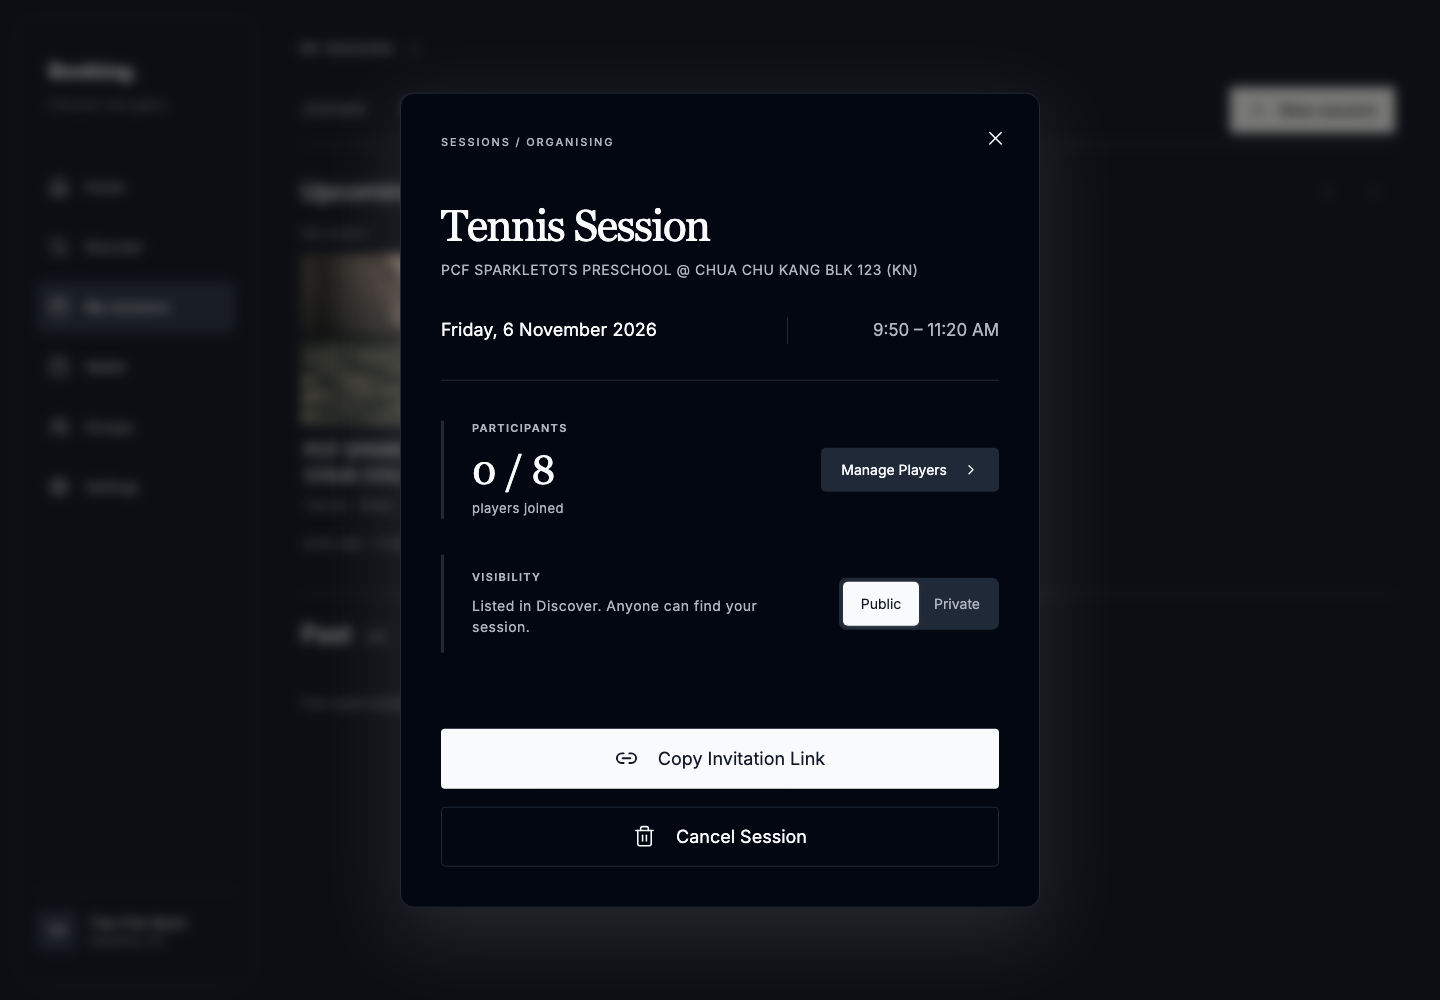
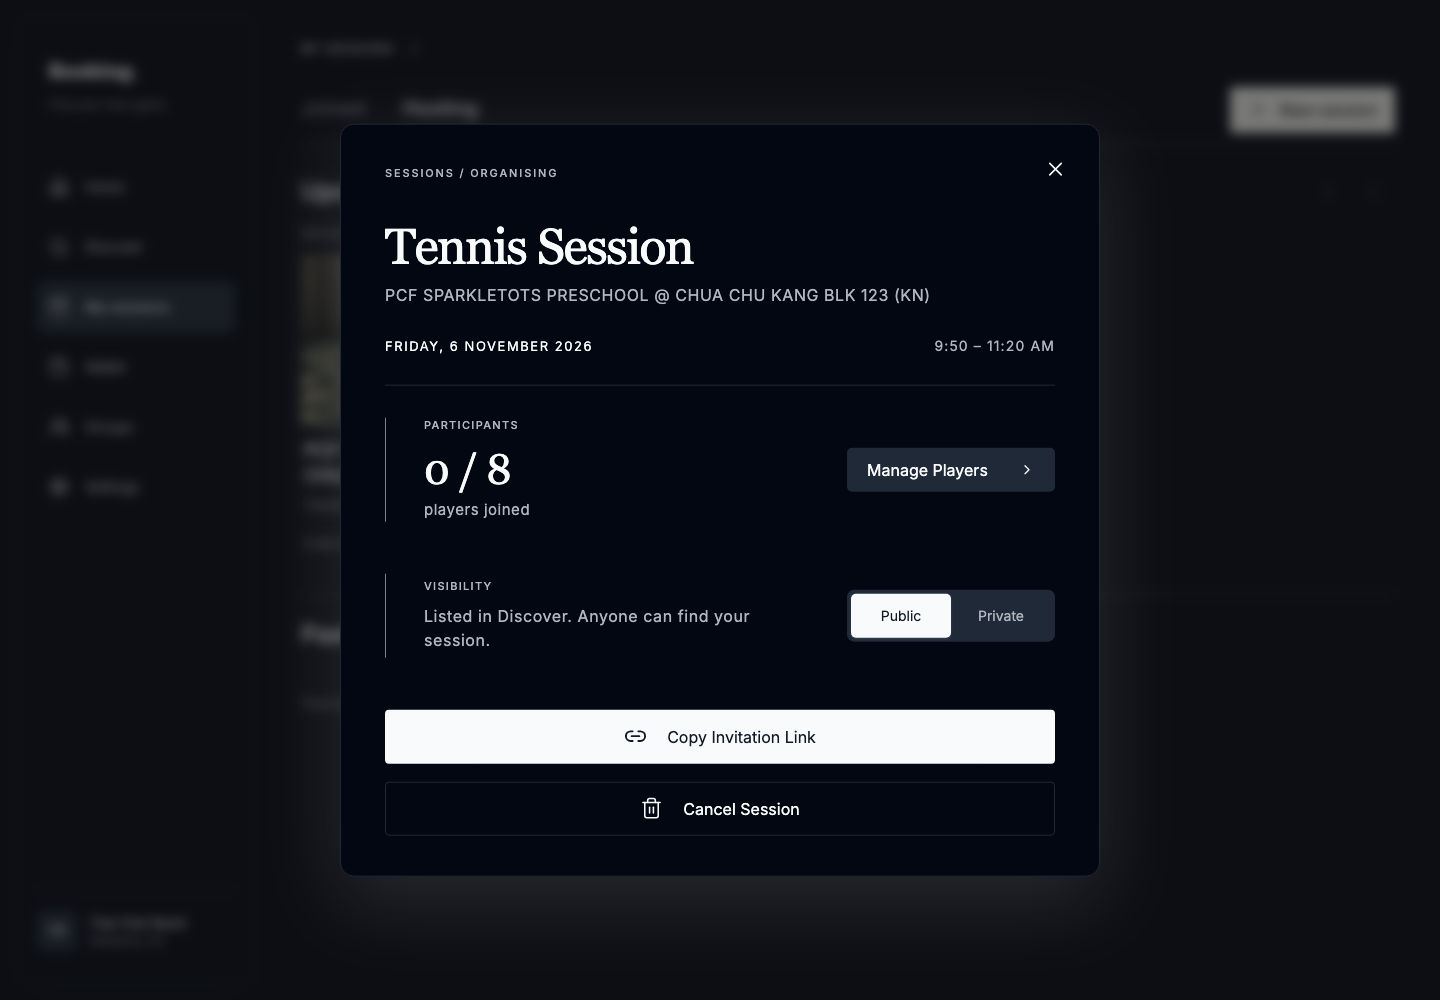
style(sessions): refine desktop typography and footer spacing

diff --git a/app/sessions/_components/session-details.module.css b/app/sessions/_components/session-details.module.css
@@ -1,32 +1,33 @@
 .overlay { background: rgb(20 20 20 / .55); backdrop-filter: blur(6px); }
 .sheetHandle { display: none; }
-.dialog.dialog { width: calc(100% - 32px); max-width: 640px; max-height: calc(100dvh - 32px); overflow-y: auto; padding: 40px; gap: 0; border-radius: 14px; background: hsl(var(--card)); box-shadow: 0 24px 80px hsl(var(--foreground) / .12); }
-.header { text-align: left; margin-bottom: 36px; }
-.eyebrow { margin: 0 44px 44px 0; color: hsl(var(--muted-foreground)); font-size: 11px; font-weight: 500; letter-spacing: .17em; text-transform: uppercase; }
+.dialog.dialog { width: calc(100% - 32px); max-width: 760px; max-height: calc(100dvh - 32px); overflow-y: auto; padding: 40px 44px; gap: 0; border-radius: 14px; background: hsl(var(--card)); box-shadow: 0 24px 80px hsl(var(--foreground) / .12); }
+.header { text-align: left; margin-bottom: 28px; }
+.eyebrow { margin: 0 44px 30px 0; color: hsl(var(--muted-foreground)); font-size: 11px; font-weight: 500; letter-spacing: .17em; text-transform: uppercase; }
 .titleRow { min-width: 0; }
-.title { margin: 0; font-family: Georgia, "Times New Roman", serif; font-size: 44px; line-height: 1.15; font-weight: 400; letter-spacing: -1.5px; text-transform: capitalize; }
-.subtitle { margin-top: 8px !important; color: hsl(var(--muted-foreground)); font-size: 14px; line-height: 1.5; letter-spacing: .035em; overflow-wrap: anywhere; }
+.title { margin: 0; font-family: Georgia, "Times New Roman", serif; font-size: 50px; line-height: 1.15; font-weight: 400; letter-spacing: -1.5px; text-transform: capitalize; }
+.subtitle { margin-top: 8px !important; color: hsl(var(--muted-foreground)); font-size: 16px; line-height: 1.5; letter-spacing: .035em; overflow-wrap: anywhere; }
 .subtitle a:hover { text-decoration: underline; text-underline-offset: 4px; }
 .date { flex: 1; }
-.summary { display: flex; align-items: baseline; justify-content: space-between; gap: 16px 24px; padding-bottom: 36px; margin-bottom: 40px; border-bottom: 1px solid hsl(var(--border)); }
+.summary { display: flex; align-items: baseline; justify-content: space-between; gap: 16px 24px; padding-bottom: 28px; margin-bottom: 32px; border-bottom: 1px solid hsl(var(--border)); }
 .date, .time { font-size: 18px; line-height: 1.5; }
-.time { flex: 0 0 38%; padding-left: 24px; border-left: 1px solid hsl(var(--border)); text-align: right; font-size: 17px; color: hsl(var(--muted-foreground)); white-space: nowrap; }
-.managementRow { display: flex; align-items: center; justify-content: space-between; gap: 24px; border-left: 3px solid hsl(var(--border)); min-height: 98px; margin-bottom: 36px; padding: 0 0 0 28px; }
+.date { font-size: 13px; font-weight: 400; letter-spacing: .12em; line-height: 1.6; text-transform: uppercase; }
+.time { flex: none; text-align: right; font-size: 14px; line-height: 1.6; letter-spacing: .08em; color: hsl(var(--muted-foreground)); white-space: nowrap; }
+.managementRow { display: flex; align-items: center; justify-content: space-between; gap: 24px; border-left: 1px solid hsl(var(--muted-foreground) / .7); min-height: 98px; margin-bottom: 52px; padding: 0 0 0 38px; }
 .managementRow > div:first-child { min-width: 0; }
-.managementRow h3 { margin-bottom: 10px; color: hsl(var(--muted-foreground)); font-size: 11px; font-weight: 600; line-height: 1.4; letter-spacing: .12em; text-transform: uppercase; }
+.managementRow h3 { margin-bottom: 10px; color: hsl(var(--muted-foreground)); font-size: 11px; font-weight: 500; line-height: 1.4; letter-spacing: .12em; text-transform: uppercase; }
 .count { display: flex; flex-direction: column; align-items: flex-start; gap: 5px; }
-.count strong { color: hsl(var(--foreground)); font-family: Georgia, "Times New Roman", serif; font-size: 40px; font-weight: 400; letter-spacing: -.8px; line-height: 1.2; }
-.count > span { color: hsl(var(--muted-foreground)); font-size: 13px; letter-spacing: .035em; }
-.manageButton { min-height: 44px; flex-shrink: 0; padding: 0 20px; border-radius: 5px; font-size: 14px; font-weight: 400; text-transform: capitalize; }
-.visibilityDescription { max-width: 300px; color: hsl(var(--muted-foreground)); font-size: 14px; line-height: 1.5; letter-spacing: .035em; }
-.segment { display: flex; flex-shrink: 0; padding: 4px; border-radius: 7px; background: hsl(var(--muted)); }
-.segment button { min-width: 76px; min-height: 44px; padding: 8px 12px; border-radius: 5px; color: hsl(var(--muted-foreground)); font-size: 14px; }
+.count strong { color: hsl(var(--foreground)); font-family: Georgia, "Times New Roman", serif; font-size: 42px; font-weight: 400; letter-spacing: -.8px; line-height: 1.2; }
+.count > span { color: hsl(var(--muted-foreground)); font-size: 15px; letter-spacing: .035em; }
+.manageButton { min-width: 208px; min-height: 44px; flex-shrink: 0; justify-content: space-between; padding: 0 20px; border-radius: 5px; font-size: 16px; font-weight: 400; text-transform: capitalize; }
+.visibilityDescription { max-width: 330px; color: hsl(var(--muted-foreground)); font-size: 16px; line-height: 1.5; letter-spacing: .035em; }
+.segment { display: flex; flex-shrink: 0; min-width: 208px; padding: 4px; border-radius: 7px; background: hsl(var(--muted)); }
+.segment button { flex: 1; min-width: 76px; min-height: 44px; padding: 8px 12px; border-radius: 5px; color: hsl(var(--muted-foreground)); font-size: 14px; }
 .segment button[aria-pressed="true"] { background: hsl(var(--primary)); color: hsl(var(--primary-foreground)); box-shadow: 0 1px 3px hsl(var(--foreground) / .12); }
-.hostFooter { display: grid; gap: 18px; padding-top: 40px; }
+.hostFooter { display: grid; gap: 18px; padding-top: 0; }
 .invitation, .inviteRow { width: 100%; }
-.inviteButton { position: relative; width: 100%; min-height: 60px; border-radius: 4px; font-size: 18px; font-weight: 400; text-transform: capitalize; }
+.inviteButton { position: relative; width: 100%; min-height: 54px; border-radius: 4px; font-size: 16px; font-weight: 400; text-transform: capitalize; }
 .inviteButton > svg { position: static; width: 23px; height: 23px; margin-right: 12px; }
-.cancelButton { position: relative; display: flex; align-items: center; justify-content: center; gap: 20px; width: 100%; min-height: 60px; padding: 12px 52px; border: 1px solid hsl(var(--input)); border-radius: 4px; color: hsl(var(--foreground)); font-size: 18px; text-transform: capitalize; }
+.cancelButton { position: relative; display: flex; align-items: center; justify-content: center; gap: 20px; width: 100%; min-height: 54px; padding: 12px 52px; border: 1px solid hsl(var(--input)); border-radius: 4px; color: hsl(var(--foreground)); font-size: 16px; text-transform: capitalize; }
 .cancelButton > svg { position: static; width: 23px; height: 23px; stroke-width: 1.6; }
 .cancelButton:hover { background: hsl(var(--muted)); }
 .dialog > button:last-child { top: 24px; right: 24px; display: flex; align-items: center; justify-content: center; width: 40px; height: 40px; opacity: 1; }
@@ -48,6 +49,9 @@
 :global(.dark) .dialog { --muted-foreground: 220 10% 72%; --destructive: 0 85% 72%; }
 @keyframes sheetEnter { from { transform: translateY(100%); } to { transform: translateY(0); } }
 @keyframes sheetExit { from { transform: translateY(0); } to { transform: translateY(100%); } }
+@media (min-width: 581px) {
+  .managementRow + .managementRow { min-height: 84px; }
+}
 @media (max-width: 580px) {
   .dialog.dialog { top: auto; bottom: 0; left: 0; display: flex; flex-direction: column; width: 100%; max-width: none; height: calc(100dvh - max(16px, env(safe-area-inset-top))); max-height: calc(100dvh - max(16px, env(safe-area-inset-top))); transform: none; padding: 52px 24px max(24px, env(safe-area-inset-bottom)); border-radius: 20px 20px 0 0; overscroll-behavior: contain; }
   .dialog.dialog > :not(button) { flex-shrink: 0; }
@@ -61,8 +65,8 @@
   .header { margin-bottom: 32px; }
   .summary { flex-wrap: wrap; gap: 8px 12px; padding-bottom: 28px; margin-bottom: 28px; }
   .date { font-size: 10px; font-weight: 600; letter-spacing: .12em; line-height: 1.6; text-transform: uppercase; }
-  .time { flex: none; padding-left: 0; border-left: 0; font-size: 12px; line-height: 1.6; }
-  .managementRow { align-items: stretch; flex-direction: column; gap: 18px; min-height: 0; padding-left: 20px; margin-bottom: 32px; border-left-width: 2px; }
+  .time { flex: none; padding-left: 0; border-left: 0; font-size: 12px; line-height: 1.6; letter-spacing: normal; }
+  .managementRow { align-items: stretch; flex-direction: column; gap: 18px; min-height: 0; padding-left: 20px; margin-bottom: 32px; border-left-width: 2px; border-left-color: hsl(var(--border)); }
   .managementRow > div:first-child { width: 100%; }
   .managementRow h3 { font-size: 10px; font-weight: 500; letter-spacing: .16em; }
   .count strong { font-size: 40px; }

diff --git a/app/sessions/_components/session-details.stories.tsx b/app/sessions/_components/session-details.stories.tsx
@@ -41,7 +41,7 @@ const meta = {
     await expect(dialog.getByRole("button", { name: "Public" })).toHaveAttribute("aria-pressed", "true");
     await expect(dialog.getAllByText(session.venueName, { exact: false })).toHaveLength(1);
     await expect(element.scrollWidth).toBeLessThanOrEqual(element.clientWidth);
-    await waitFor(() => expect(element.getBoundingClientRect().width).toBeLessThanOrEqual(640));
+    await waitFor(() => expect(element.getBoundingClientRect().width).toBeLessThanOrEqual(760));
   },
 } satisfies Meta<typeof SessionsController>;
 export default meta;

diff --git a/docs/screenshots/session-details/README.md b/docs/screenshots/session-details/README.md
@@ -12,10 +12,10 @@
 | joined-completed-desktop.png | 1440 × 1000 | Original Joined completed-session modal, dark |
 | joined-completed-mobile.png | 390 × 844 | Original Joined completed-session modal, dark |
 
-Render `Sessions/Session details/Hosting` and `Joined` after running `npm run build-storybook` and serving `storybook-static`. The host screenshots change the viewport and toggle the same `html.dark` class used by the application's theme tokens. All four host screenshots have zero horizontal overflow; the desktop dialog is 640px wide and mobile sheet fills the 390px viewport, with vertical scrolling where needed.
+Render `Sessions/Session details/Hosting` and `Joined` after running `npm run build-storybook` and serving `storybook-static`. The host screenshots change the viewport and toggle the same `html.dark` class used by the application's theme tokens. All four host screenshots have zero horizontal overflow; the desktop dialog is 760px wide and mobile sheet fills the 390px viewport, with vertical scrolling where needed.
 
 Browser tests cover the real summary and controls, light/dark accessibility, history and in-progress restrictions, current-place checks, refund confirmation, waitlist departure, and keyboard focus restoration. Refund results remain visible until dismissed. Cancellation explicitly returns outstanding held shares to wallets and leaves venue reservation cancellation to the booker.
 
-The host design follows the organising reference: serif titles and player counts, one date/time row with a lower divider, a large count with its caption below, left-rule management sections, confirmed Public/Private segments, and full-width invitation/cancellation buttons with centered icons. Desktop adds a date/time separator and a blurred backdrop. Mobile uses a bottom-anchored sheet with a tap-to-dismiss handle, uppercase date, full-width management controls, safe-area padding, and a reduced-motion alternative. Cancellation uses a neutral outline; the confirmation dialog explains wallet refunds and separate venue cancellation. The redesign is scoped to host management. Joined retains its original 680px desktop modal, court photograph, title/status subtitle, Details/Participants tabs, full sport/location/date/availability information, and calendar link. Regression stories cover the completed CLEMENTI CASCADIA session on desktop and mobile. Native dialog scrolling, tab persistence, Escape, and trigger focus restoration were also checked in Chromium and WebKit.
+The host design follows the organising reference: serif titles and player counts, one date/time row with a lower divider, a large count with its caption below, left-rule management sections, confirmed Public/Private segments, and full-width invitation/cancellation buttons with centered icons. Desktop uses a regular-weight uppercase date beside the time, a blurred backdrop, 52px clearance above the actions, an 18px gap between the buttons, and 40px padding below Cancel Session. Mobile uses a bottom-anchored sheet with a tap-to-dismiss handle, uppercase date, full-width management controls, safe-area padding, and a reduced-motion alternative. Cancellation uses a neutral outline; the confirmation dialog explains wallet refunds and separate venue cancellation. The redesign is scoped to host management. Joined retains its original 680px desktop modal, court photograph, title/status subtitle, Details/Participants tabs, full sport/location/date/availability information, and calendar link. Regression stories cover the completed CLEMENTI CASCADIA session on desktop and mobile. Native dialog scrolling, tab persistence, Escape, and trigger focus restoration were also checked in Chromium and WebKit.
 
 Validation for the responsive reference: 83 session Storybook tests and seven shared confirmation-dialog tests pass. Chromium and WebKit separately verify bottom anchoring, native scrolling at 390 × 560, Escape, dismissal-handle behavior, and focus restoration. A rendering snapshot retains the content and presentation through the closing animation; current selection still controls whether the dialog is open.

diff --git a/docs/superpowers/plans/2026-10-29-session-details.md b/docs/superpowers/plans/2026-10-29-session-details.md
@@ -6,7 +6,7 @@
 
 **Architecture:** Keep the feed and server-selected host actions authoritative. Share host control state between the existing list and the new dialog. Reuse withdrawal and waitlist confirmation flows for participants; keep their recoverable requests and refund previews.
 
-**Design:** Follow the organising reference in a 640px host dialog with 40px desktop padding, a 44px serif session title, Sessions / Organising context, venue subtitle, and Singapore date/time on one row above a divider. Use left vertical rules for participant and visibility sections, a large serif player count with its caption below, a server-confirmed Public/Private switch, and full-width invitation/cancellation buttons with centered icons. Cancellation uses a neutral outline and explains its effects in the confirmation dialog. Keep the original Joined 680px photo/details modal. Preserve dark navy tokens and readable secondary text. Cancellation closes the booking room and refunds held shares; venue cancellation remains separate.
+**Design:** Follow the organising reference in a 760px host dialog with generous footer spacing and a 50px serif session title, Sessions / Organising context, venue subtitle, and Singapore date/time on one row above a divider. Use left vertical rules for participant and visibility sections, a large serif player count with its caption below, a server-confirmed Public/Private switch, and full-width invitation/cancellation buttons with centered icons. Cancellation uses a neutral outline and explains its effects in the confirmation dialog. Keep the original Joined 680px photo/details modal. Preserve dark navy tokens and readable secondary text. Cancellation closes the booking room and refunds held shares; venue cancellation remains separate.
 
 **Review focus:** Overnight Singapore dates; long venue names on mobile; full/private sessions with unavailable actions; ended/cancelled sessions; loading, failure, and confirmation focus restoration.
 
@@ -22,4 +22,4 @@
 
 **Joined preservation follow-up:** Per the user's screenshot, retain the original participant dialog layout (680px desktop width, court image, original header, full Details/Participants content and calendar link). The 600px redesign applies to host management. Add desktop/mobile completed-session regressions and screenshots; verify native scrolling, panel persistence and closing focus in Chromium and WebKit.
 
-**Coordinated responsive references:** Both host layouts use serif titles/counts. Desktop keeps the centered dialog, adds a date/time separator, and opts into a blurred overlay. Mobile uses a bottom-anchored sheet, accessible dismissal handle, full-width management controls, safe-area padding, and reduced-motion support. Keep Joined and other dialogs on their original presentation; the shared overlay class is optional and defaults to existing behavior.
+**Coordinated responsive references:** Both host layouts use serif titles/counts. Desktop keeps the centered dialog with a regular-weight uppercase date beside the time, a blurred overlay, 52px clearance above the actions and 40px padding below them. Mobile uses a bottom-anchored sheet, accessible dismissal handle, full-width management controls, safe-area padding, and reduced-motion support. Keep Joined and other dialogs on their original presentation; the shared overlay class is optional and defaults to existing behavior.
